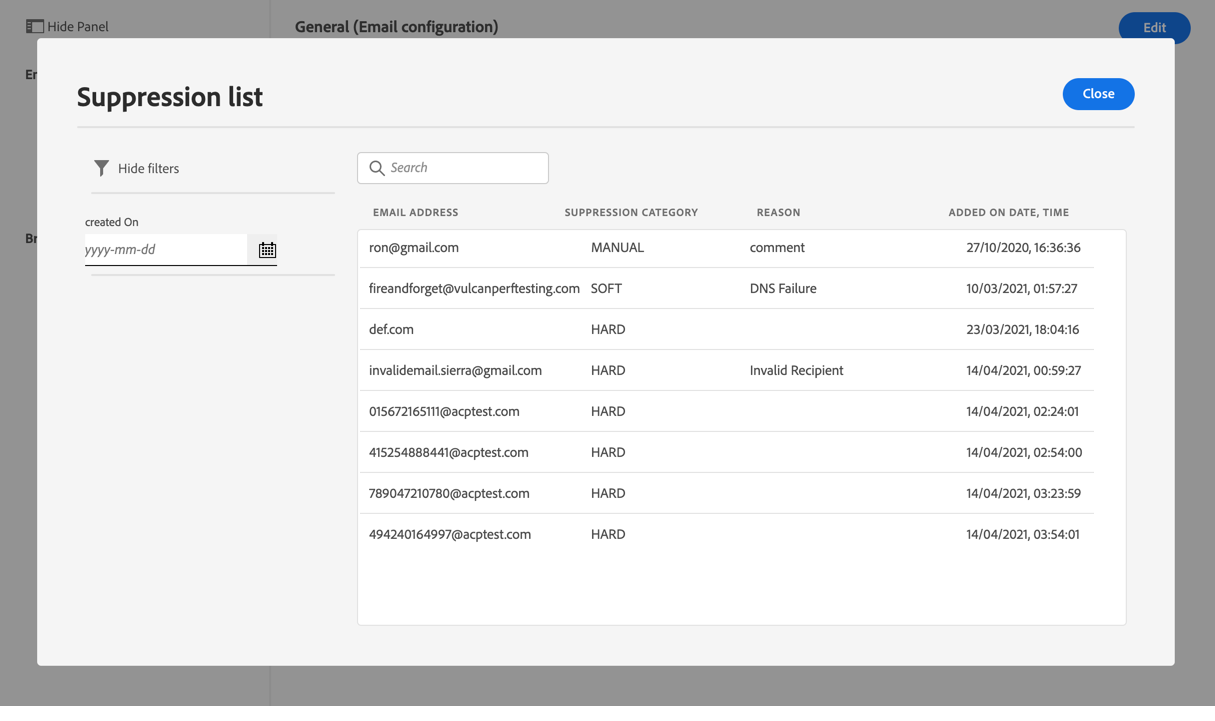
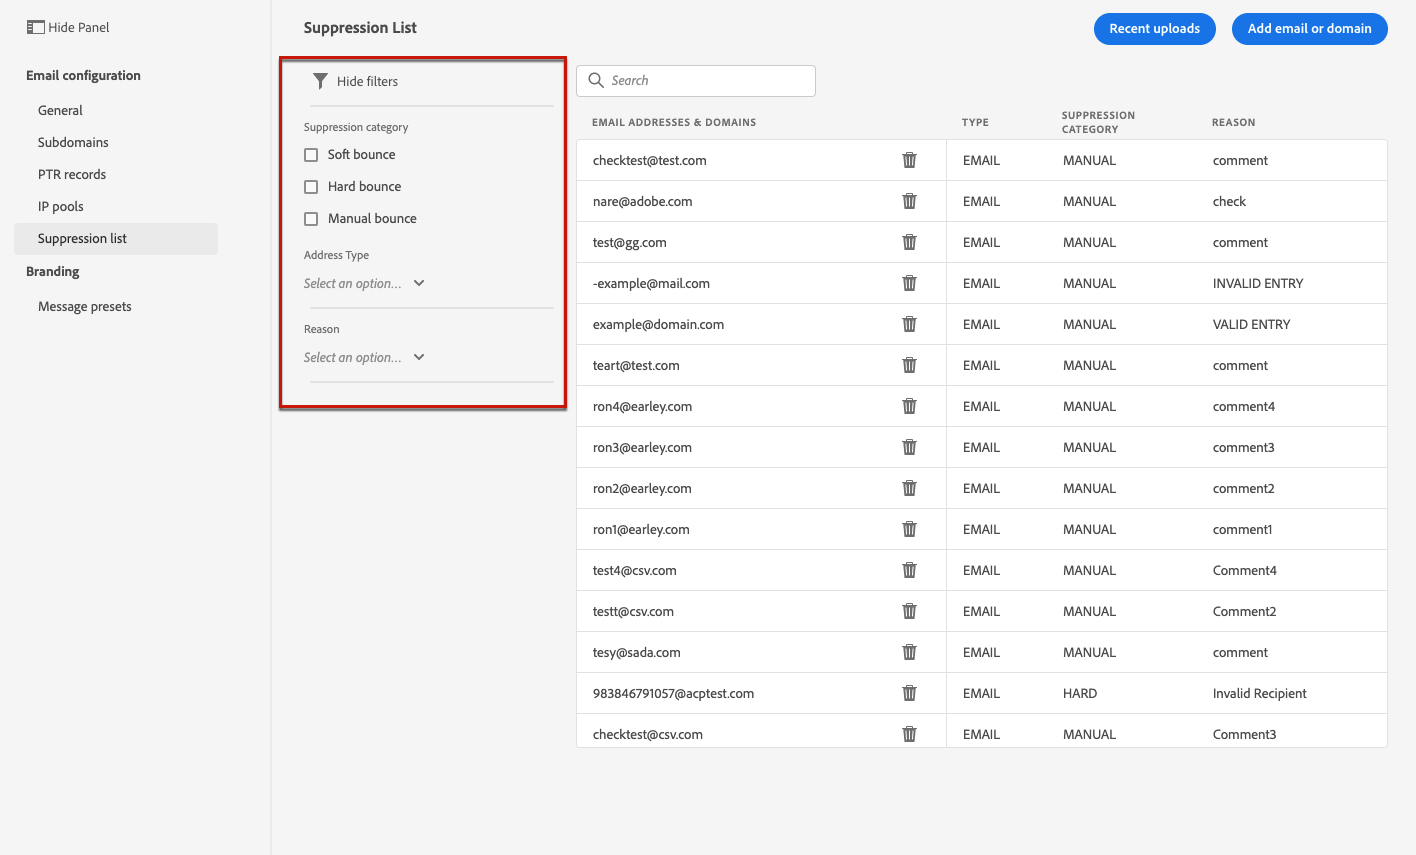
add address/domain + UI updates

diff --git a/help/using/configuration/manage-suppression-list.md b/help/using/configuration/manage-suppression-list.md
@@ -24,27 +24,27 @@ With [!DNL Journey Optimizer], you can monitor all the email addresses that are 
 * Addresses that are invalid (hard bounces), or that consistently soft-bounce, and could adversely affect your email reputation if you continue to include them in your deliveries.
 * Recipients who issue a spam complaint of some kind against one of your email messages.
 
-<!--Profiles who unsubscribe from your sendings. Learn more on [opting-out](../consent.md). NOT TRUE as confirmed by eng.: "Subscribe and Unsubscribe are handled by the Consent/Subscription service. A user that opts out will not make it to the suppression list – we won’t send them emails."-->
-
 Such email addresses are automatically collected into the Journey Optimizer **suppression list**. Learn more in [this section](../suppression-list.md).
 
 ## Access the suppression list {#access-suppression-list}
 
-To access the detailed list of excluded email addresses, open the **[!UICONTROL Channels]** > **[!UICONTROL Email configuration]** > **[!UICONTROL General]** menu, then click the **[!UICONTROL View suppression lists]** link.
+To access the detailed list of excluded email addresses, go to **[!UICONTROL Administration]** > **[!UICONTROL Channels]** > **[!UICONTROL Email configuration]**, and select **[!UICONTROL Suppression list]**.
 
-![](../assets/suppression-list-link.png)
+![](../assets/suppression-list-access.png)
 
 Filters are available to help you browse through the list.
 
 ![](../assets/suppression-list-filters.png)
 
-<!--suppression date,  category and reason, but on staging, only creation date filter is available-->
+You can filter on the **[!UICONTROL Suppression category]**, **[!UICONTROL Address type]**, or **[!UICONTROL Reason]**. Select the option(s) of your choice for each criterion.
 
-<!--You can also download the list as a CSV file for analysis and reporting purpose. Won't be available.-->
+![](../assets/suppression-list-filtering-example.png)
+
+Once selected, you can clear each filter or all filters displayed on top of the list.
 
 ## Suppression categories and reasons {#suppression-categories-and-reasons}
 
-When a message fails to be delivered to an email address, Journey Optimizer determines why the delivery failed and associates it with a suppression category.
+When a message fails to be delivered to an email address, [!DNL Journey Optimizer] determines why the delivery failed and associates it with a **[!UICONTROL Suppression category]**.
 
 The suppression categories are as follows:
 
@@ -56,16 +56,15 @@ The suppression categories are as follows:
     * When the error occurred for a valid email address but is known to be temporary, such as a failed connection attempt or a temporary technical issue, the email address is added to the suppression list once the error counter reaches the limit threshold. [Learn more on retries](retries.md).
     * When the error is the result of a spam complaint, the email address of the recipient who issued the complaint is immediately sent to the suppression list.
 
-<!--**Manual**: You can also manually add an email address to the suppression list. => Manual category will be available when manually adding an address to the suppression list (via API)-->
+* **Manual**: You can also manually add an email address or a domain to the suppression list. [Learn more](#add-addresses-and-domains)
 
 >[!NOTE]
 >
 >Learn more on soft bounces and hard bounces in the [Delivery failure types](../suppression-list.md#delivery-failures) section.
 
-For each email address that is listed, you can also check the **[!UICONTROL Reason]** for excluding it and the date/time it was added to the suppression list.
+For each email address that is listed, you can also check the **[!UICONTROL Type]** (email or domain), **[!UICONTROL Reason]** for excluding it, who added it, and the date/time it was added to the suppression list.
 
-![](../assets/suppression-list-temp.png)
-<!--to replace with suppression-list.png when Manual category is available (through API)-->
+![](../assets/suppression-list.png)
 
 The possible reasons for a delivery failure are:
 
@@ -102,4 +101,68 @@ Removed from the table provided by SparkPost/Momentum:
 
 <!--Note to add eventually: If a user is subscribed and [!DNL Journey Optimizer] fails to send emails to their subscribed email address, they will get added to the suppression list. (not sure it's possible to subscribe through AJO or need to find reference to Experience Platform doc?)-->
 
+## Manually add addresses and domains {#add-addresses-and-domains}
 
+When a message fails to be delivered to an email address, this address is automatically added to the suppression list.
+
+However, you can also manually populate the [!DNL Journey Optimizer] suppression list to exclude specific email addresses and/or domains from your sending.
+
+You may add email addresses or domains [one at a time](#add-one-address-or-domain), or [in bulk mode](#upload-csv-file) through a CSV file upload.
+
+To do this, select the **[!UICONTROL Add email or domain]** button, then follow one of the methods below.
+
+![](../assets/suppression-list-add-email.png)
+
+### Add one address or domain {#add-one-address-or-domain}
+
+1. Select the **[!UICONTROL One by one]** option.
+
+    ![](../assets/suppression-list-add-email-address.png)
+
+1. Choose the address type: **[!UICONTROL Email address]** or **[!UICONTROL Domain address]**.
+
+1. Enter the email address or domain you want to exclude from your sending.
+
+    >[!NOTE]
+    >
+    >Make sure you enter a valid email address (such as abc@company) or domain (such as abc.company.com).
+
+1. Specify a reason if needed.
+
+1. Click **[!UICONTROL Submit]**.
+
+### Upload a CSV file {#upload-csv-file}
+
+1. Select the **[!UICONTROL Upload CSV]** option.
+
+    ![](../assets/suppression-list-upload-csv.png)
+
+1. Dowload the CSV template to use. You can also create your own CSV file, but it must have the columns and format below:
+
+    ```
+    TYPE,VALUE,COMMENT
+    EMAIL,abc@somedomain.com,Comment
+    DOMAIN,somedomain.com,Comment
+    ```
+
+    >[!CAUTION]
+    >
+    >Do not change the names of the columns in the CSV template.
+    >
+    >The file size should not exceed 50KB.
+
+1. Fill in the CSV template with the email addresses and/or domains you want to add to the suppression list.
+
+1. Once completed, drag and drop your CSV file, then click **[!UICONTROL Upload file]**.
+
+    ![](../assets/suppression-list-upload-file-button.png)
+
+1. Click **[!UICONTROL Submit]**.
+
+You can check the list of the latest CSV files you uploaded, included their status.
+
+![](../assets/suppression-list-recent-uploads.png)
+
+To do this, from the **[!UICONTROL Suppression list]** view, click the **[!UICONTROL Recent uploads]** button.
+
+![](../assets/suppression-list-recent-uploads-button.png)
